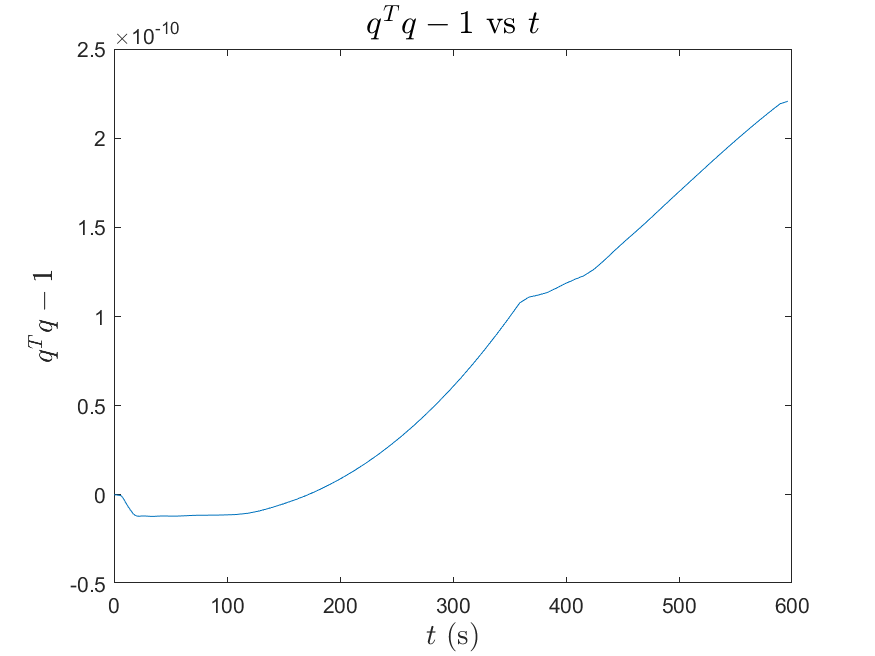
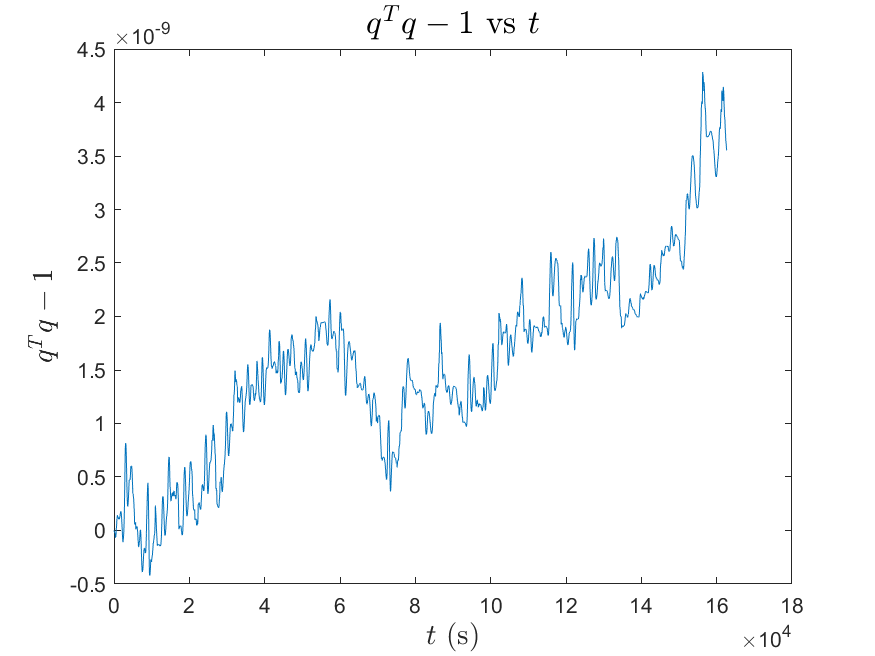
Used MATLABs parallel computing toolbox to give sim access to a computer cluster for running ode integrator as a batch job. Sims that were taking days to run now run in a matter of minutes.

diff --git a/utils/Plotter_v4.m b/utils/Plotter_v4.m
@@ -200,25 +200,27 @@ if strcmp(est_method,'CF')
 end
 
 %% Momentum Wheel Speeds
-figType = 'mwheel_speeds';
-figure(10)
-subplot(3,1,1)
-plot(tout,gammaDot(1,:)*rad2deg), xlabel('$t$ (s)','fontsize',14,'interpreter','latex');
-ylabel('$\dot{\gamma}_{1}$ (deg)','fontsize',14,'interpreter','latex'); 
-title('$\dot{\gamma}_{1}$ vs $t$','fontsize',16,'interpreter','latex');
+if strcmp(est_method,'CF')
+    figType = 'mwheel_speeds';
+    figure(10)
+    subplot(3,1,1)
+    plot(tout,gammaDot(1,:)*rad2deg), xlabel('$t$ (s)','fontsize',14,'interpreter','latex');
+    ylabel('$\dot{\gamma}_{1}$ (deg)','fontsize',14,'interpreter','latex'); 
+    title('$\dot{\gamma}_{1}$ vs $t$','fontsize',16,'interpreter','latex');
 
-subplot(3,1,2)
-plot(tout,gammaDot(2,:)*rad2deg), xlabel('$t$ (s)','fontsize',14,'interpreter','latex');
-ylabel('$\dot{\gamma}_{2}$ (deg)','fontsize',14,'interpreter','latex'); 
-title('$\dot{\gamma}_{2}$ vs $t$','fontsize',16,'interpreter','latex');
+    subplot(3,1,2)
+    plot(tout,gammaDot(2,:)*rad2deg), xlabel('$t$ (s)','fontsize',14,'interpreter','latex');
+    ylabel('$\dot{\gamma}_{2}$ (deg)','fontsize',14,'interpreter','latex'); 
+    title('$\dot{\gamma}_{2}$ vs $t$','fontsize',16,'interpreter','latex');
 
-subplot(3,1,3)
-plot(tout,gammaDot(3,:)*rad2deg), xlabel('$t$ (s)','fontsize',14,'interpreter','latex');
-ylabel('$\dot{\gamma}_{3}$ (deg)','fontsize',14,'interpreter','latex'); 
-title('$\dot{\gamma}_{3}$ vs $t$','fontsize',16,'interpreter','latex');
+    subplot(3,1,3)
+    plot(tout,gammaDot(3,:)*rad2deg), xlabel('$t$ (s)','fontsize',14,'interpreter','latex');
+    ylabel('$\dot{\gamma}_{3}$ (deg)','fontsize',14,'interpreter','latex'); 
+    title('$\dot{\gamma}_{3}$ vs $t$','fontsize',16,'interpreter','latex');
 
-savePath = strcat(folder,figType,ext);
-saveas(gcf,savePath);
+    savePath = strcat(folder,figType,ext);
+    saveas(gcf,savePath);
+end
 %% Animtate Attitude
 if Animate_Att
     figType = 'AttAnim';

diff --git a/utils/Post_Process_v4.m b/utils/Post_Process_v4.m
@@ -42,17 +42,23 @@ for lv1 = 1:length(tout)
     E(lv1) = Etot(xout(:,lv1),r,Cba,ba,params);
     [phi, theta, psi] = DCM2Euler321(Cba);
     eulerAngs(:,lv1) = [phi; theta; psi];
-    Ceb_CF = Cea_CF*Cba'; % error DCM between estimated frame and body frame
-    [phierr_CF, thetaerr_CF, psierr_CF] = DCM2Euler321(Ceb_CF);
-    eulerEstErr_CF(:,lv1) = [phierr_CF; thetaerr_CF; psierr_CF];
+    if strcmp(est_method,'CF')
+        Ceb_CF = Cea_CF*Cba'; % error DCM between estimated frame and body frame
+        [phierr_CF, thetaerr_CF, psierr_CF] = DCM2Euler321(Ceb_CF);
+        eulerEstErr_CF(:,lv1) = [phierr_CF; thetaerr_CF; psierr_CF];
+    end
 end
 if strcmp(AttType,'DCM')
     wba = xout(16:18,:);
-    gammaDot = xout(19:21,:);  
+    if strcmp(est_method,'CF')
+        gammaDot = xout(19:21,:);
+    end
 else
     q = xout(7:10,:);      
     wba = xout(11:13,:);
-    gammaDot = xout(14:16,:);
+    if strcmp(est_method,'CF')
+        gammaDot = xout(14:16,:);
+    end
 end
 
 

diff --git a/sims/OrbitFabSim.m b/sims/OrbitFabSim.m
@@ -75,9 +75,14 @@ options = odeset('AbsTol',absTol,'RelTol',relTol,'Events',event_func);
 
 T = 2*pi*sqrt(a^3/mu);
 tspan = [0 nOrbits*T];
-
-[tout,xout] = ode15s(@(t,x) dynamicsBdot(t,x,params),tspan,x0,options);
-
+c = parcluster;
+job314 = c.batch(@ode15s,2,{@(t,x) dynamicsBdot(t,x,params),tspan,x0,options});
+wait(job314, 'finished');
+resultsin = fetchOutputs(job314);
+delete(job314);
+%[tout,xout] = ode15s(@(t,x) dynamicsBdot(t,x,params),tspan,x0,options);
+tout = resultsin{1};
+xout = resultsin{2};
 %% Post Process Data
 Post_Process_v4
 results.tout = tout;

diff --git a/simDriver.m b/simDriver.m
@@ -69,14 +69,14 @@ end
 
 
 %% Save Results
-for lv1 = 1:100
-    sname = sprintf('sim%d',lv1);
-    if ~exist(sname,'file')
-        fname = sprintf('data/output/sim%d.mat',lv1);
-        save(fname,'results');
-        break;
-    end
-end
+% for lv1 = 1:100
+%     sname = sprintf('sim%d',lv1);
+%     if ~exist(sname,'file')
+%         fname = sprintf('data/output/sim%d.mat',lv1);
+%         save(fname,'results');
+%         break;
+%     end
+% end
 tend = now;
 telapsed = (tend-tstart)*86400;
 fprintf("Elapsed time for the simulation is %.1f\n",telapsed);

diff --git a/utils/event_function.m b/utils/event_function.m
@@ -1,6 +1,6 @@
 function [value,isterminal,direction] = event_function(t,x,params) %#ok<INUSL>
 R = params.Earth.Rmean;
-if norm(x(1:3))-R<=100e3
+if norm(x(1:3))-R<=150e3
     value = 0;
 else
     value = 1;

diff --git a/utils/LoadJacchia70.m b/utils/LoadJacchia70.m
@@ -16,8 +16,8 @@
 %  indata(12) = geomagnetic activity index
 
 indata(12) = 3;
-indata(11) = 100;
-indata(10) = 40.07;
+indata(11) = 150;
+indata(10) = 100;
 indata(9) = 1;
 
 
